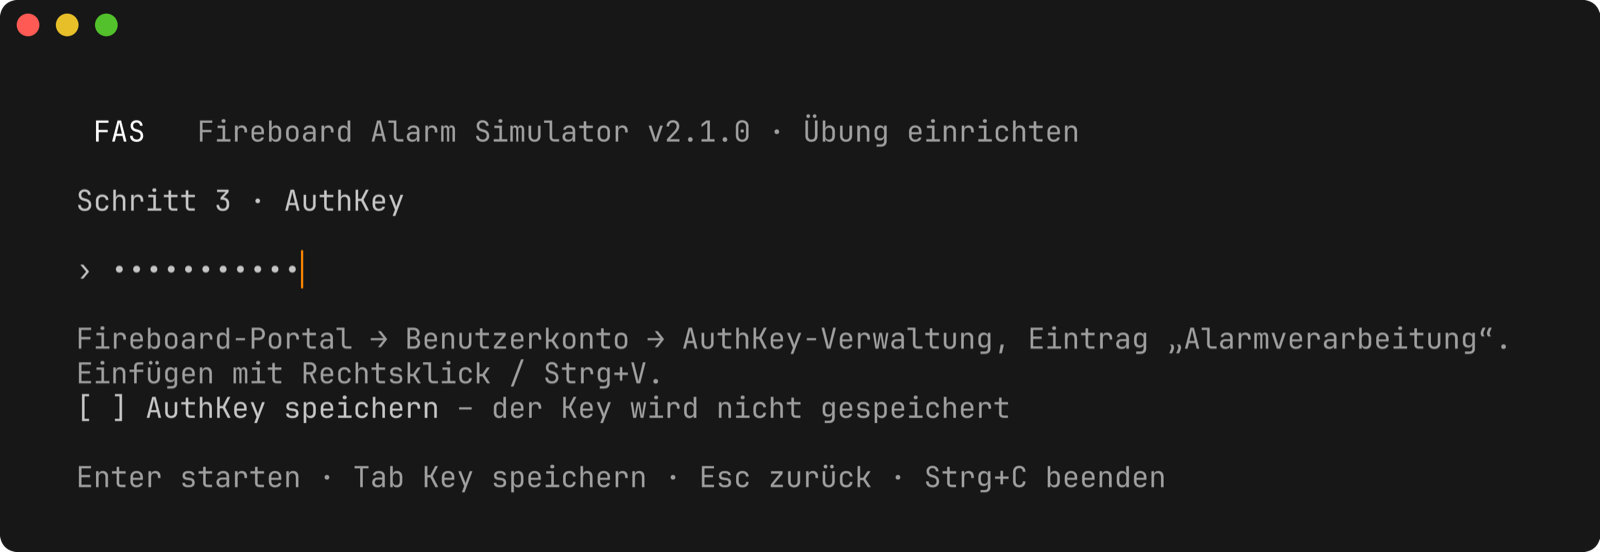
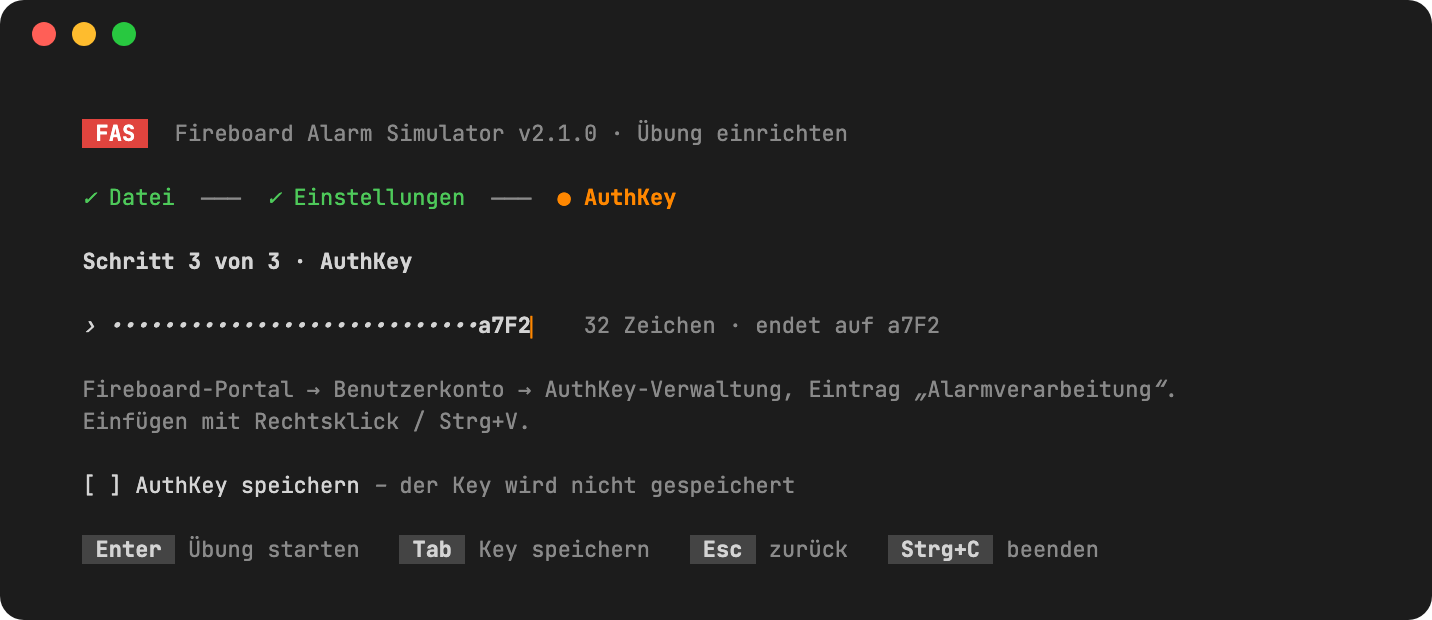
README aktualisiert

diff --git a/index.html b/index.html
@@ -111,7 +111,7 @@ Eure Führungskräfte arbeiten sie in Fireboard ab wie echte Einsätze.
 
 <p class="small">
 <span class="badge beta">Beta</span>
-<a href="https://github.com/kventil/fireboard-alarm-simulator-releases/releases/tag/v2.1.0-beta.2">Vorabversion 2.1.0-beta.2</a>
+<a href="https://github.com/kventil/fireboard-alarm-simulator-releases/releases/tag/v2.1.0-beta.3">Vorabversion 2.1.0-beta.3</a>
 nur zum Testen, nicht für Übungen – <a href="#versionen">was ist neu?</a>
 </p>
 
@@ -121,8 +121,8 @@ Verbindung zu <a href="https://fireboard.net/">Fireboard</a>.
 </p>
 
 <figure>
-  <img src="docs/images/uebung.png" width="1600" height="739" alt="Übungsansicht während einer laufenden Übung">
-  <figcaption>Die Übungsansicht: welche Einsätze raus sind, welcher als Nächstes kommt.</figcaption>
+  <img src="docs/images/uebung.png" width="1696" height="1420" alt="Übungsansicht während einer laufenden Übung">
+  <figcaption>Die Übungsansicht: welche Einsätze raus sind, welcher als Nächstes kommt, und alles zum ausgewählten Einsatz.</figcaption>
 </figure>
 
 <p class="note">
@@ -178,14 +178,14 @@ Einsätze landen nur im Alarmeingang.
     <p>Doppelklick auf <code>fas.exe</code>. Mit den Pfeiltasten die
     Excel-Liste auswählen, dann <kbd>Enter</kbd>. Eigene Listen einfach in
     denselben Ordner legen.</p>
-    <img src="docs/images/start-datei.png" width="1600" height="644" alt="Startbildschirm: Alarmliste wählen" loading="lazy">
+    <img src="docs/images/start-datei.png" width="1432" height="556" alt="Startbildschirm: Alarmliste wählen" loading="lazy">
   </li>
   <li>
     <h3>Einstellen</h3>
     <p>Testlauf oder live, von Hand oder automatisch, wie viele
     Zufallsalarme. Beim ersten Mal auf <b>Testlauf</b> lassen – dann kommt
     in Fireboard nichts an.</p>
-    <img src="docs/images/start-einstellungen.png" width="1600" height="759" alt="Startbildschirm: Einstellungen" loading="lazy">
+    <img src="docs/images/start-einstellungen.png" width="1432" height="748" alt="Startbildschirm: Einstellungen" loading="lazy">
   </li>
   <li>
     <h3>Übung live</h3>
@@ -331,13 +331,23 @@ Versionen. Alle Downloads stehen auf der <a href="https://github.com/kventil/fir
 
 <section class="beta">
 
-<h3><a href="https://github.com/kventil/fireboard-alarm-simulator-releases/releases/tag/v2.1.0-beta.2">2.1.0-beta.2</a> <span class="badge beta">Beta · nur zum Testen</span> <span class="date">3. Oktober 2026</span></h3>
+<h3><a href="https://github.com/kventil/fireboard-alarm-simulator-releases/releases/tag/v2.1.0-beta.3">2.1.0-beta.3</a> <span class="badge beta">Beta · nur zum Testen</span> <span class="date">7. Oktober 2026</span></h3>
 <p>
 <b>Vorabversion, noch nicht fertig getestet.</b> Für Übungen bitte die
 aktuelle Version 2.0.0 verwenden. Wer die Neuerungen ausprobiert:
 Rückmeldungen gern über <a href="#feedback">Feedback</a>.
 </p>
 <ul>
+  <li><b>Übungsansicht:</b> Die Liste nutzt die ganze Fensterhöhe. Darunter
+    steht alles zum ausgewählten Einsatz – Alarmtext, Meldebild, Objekt,
+    Meldender –, in breiten Fenstern daneben, was als Nächstes kommt und was
+    zuletzt passiert ist. In kleinen Fenstern zeigt <kbd>i</kbd> alle Details.
+    Unten stehen nur die Tasten, die gerade passen; Löschen mit <kbd>d</kbd>
+    fragt einmal nach.</li>
+  <li><b>Startbildschirm:</b> zeigt die Schritte, das Änderungsdatum der
+    Excel-Listen und eine nicht beendete Übung direkt in der Liste. Dateien
+    lassen sich mit der Maus wählen; beim AuthKey sind Länge und die letzten
+    vier Zeichen zu sehen.</li>
   <li><b>Übung wiederholen:</b> Wird dieselbe Excel-Liste noch einmal
     durchgespielt, erscheinen die Alarme in Fireboard wieder als neue Einsätze.
     Bisher blieben sie aus, weil Fireboard sie für bereits bekannte Einsätze
@@ -359,9 +369,8 @@ Rückmeldungen gern über <a href="#feedback">Feedback</a>.
     Start. Sie enthält keinen AuthKey und hilft bei der Fehlersuche.</li>
 </ul>
 <p class="small">
-Seit <a href="https://github.com/kventil/fireboard-alarm-simulator-releases/releases/tag/v2.1.0-beta.1">beta.1</a> (2. Oktober): Aufräumarbeiten
-im Programm. Lässt sich der AuthKey nicht speichern, startet die Übung
-trotzdem und zeigt einen Hinweis.
+Seit <a href="https://github.com/kventil/fireboard-alarm-simulator-releases/releases/tag/v2.1.0-beta.2">beta.2</a> (3. Oktober): die neue
+Übungsansicht und der überarbeitete Startbildschirm (die ersten beiden Punkte).
 </p>
 
 </section>

diff --git a/remote/version.js b/remote/version.js
@@ -1,2 +1,2 @@
 // Version of the control page, set when publishing.
-export const PAGE_VERSION = "2.1.0-beta.2";
+export const PAGE_VERSION = "2.1.0-beta.3";

diff --git a/README.md b/README.md
@@ -75,7 +75,8 @@ entpacken (Rechtsklick → *Alle extrahieren*). Im Ordner liegen:
 
 **Doppelklick auf `fas.exe`.** Es öffnet sich ein Fenster mit dem
 Startbildschirm. Mit den Pfeiltasten `↑` `↓` die Excel-Liste auswählen, dann
-`Enter`.
+`Enter` – oder die Datei mit der Maus anklicken (zweiter Klick: weiter). Wurde
+die letzte Übung mit einer Datei nicht beendet, steht das direkt darunter.
 
 ![Startbildschirm: Alarmliste wählen](docs/images/start-datei.png)
 
@@ -88,8 +89,9 @@ erscheint dann hier. Oder die Datei direkt **auf `fas.exe` ziehen**.
 
 ### 3. Einstellungen
 
-Mit `↑` `↓` zwischen den Zeilen wechseln, mit `←` `→` die Auswahl ändern.
-Zahlen einfach eintippen.
+Mit `↑` `↓` zwischen den Zeilen wechseln, mit `←` `→` oder der Leertaste die
+Auswahl ändern. Zahlen einfach eintippen. Unter den Einstellungen steht, was
+die gewählte Zeile bewirkt.
 
 ![Startbildschirm: Einstellungen](docs/images/start-einstellungen.png)
 
@@ -110,7 +112,9 @@ kommt nichts an. Beenden mit `q`.
 
 FAS noch einmal starten, bei *Senden* **Live** wählen und `Enter`. Jetzt fragt
 FAS nach dem **AuthKey**: eintippen oder mit Rechtsklick / `Strg+V` einfügen,
-dann `Enter`. Der Key wird **nicht gespeichert** und bei jedem Start neu
+dann `Enter`. Bei langen Keys zeigt FAS die letzten vier Zeichen und die Länge,
+damit du siehst, ob der richtige Key vollständig eingefügt ist. Der Key wird
+**nicht gespeichert** und bei jedem Start neu
 abgefragt – außer du setzt mit `Tab` das Häkchen bei *AuthKey speichern*. Dann
 legt FAS ihn geschützt auf diesem Computer ab und fragt beim nächsten Mal nicht
 mehr (siehe [AuthKey speichern](#authkey-speichern)).
@@ -126,31 +130,45 @@ mehr (siehe [AuthKey speichern](#authkey-speichern)).
 - **Oben** siehst du, ob wirklich gesendet wird (**LIVE**) oder nur geübt wird
   (**TESTLAUF**), und wie viele Alarme schon raus sind.
 - **Übungszeit** läuft seit dem Start; bei Pause bleibt sie stehen.
-- **Die Liste** zeigt jeden Einsatz: `Z4` ist Zeile 4 deiner Excel-Liste.
+- **Die Liste** zeigt jeden Einsatz: `Z4` ist Zeile 4 deiner Excel-Liste. Die
+  Zeit davor ist die Übungszeit, zu der er gesendet wurde (`+5:10`). Die
+  Liste nutzt die ganze Fensterhöhe; ein größeres Fenster zeigt mehr Einsätze.
+- **Unter der Liste** steht alles zum ausgewählten Einsatz: Alarmtext,
+  Meldebild, Objekt, Meldender und die geplante Lageänderung. Ist das Fenster
+  breit genug, stehen daneben **Als Nächstes** (was gleich gesendet wird) und
+  der **Verlauf** (was zuletzt passiert ist). In kleinen Fenstern zeigt `i`
+  alle Details, `Esc` schließt sie wieder.
+- **Ganz unten** stehen nur die Tasten, die für den ausgewählten Einsatz gerade
+  passen.
 
 | Symbol | Bedeutung |
 |---|---|
 | `○` | wartet |
 | `●` | kommt als Nächstes – mit Countdown |
 | `◷` | kommt zu einer festen Zeit ([Drehbuch](#nach-drehbuch)) |
-| `✓` | gesendet |
-| `✗` | Fehler – was los ist, steht unter der Liste |
-| `Update ✓` | Lageänderung wurde gesendet; `Upd 4:12` = kommt in 4:12 Minuten |
+| `✓ gesendet` | gesendet (`✓ Testlauf` im Testlauf) |
+| `✗ … fehlgeschlagen` | Fehler – was los ist, steht unter der Liste |
+| `✓ Update gesendet` | Lageänderung wurde gesendet; `Update in 4:12` = kommt in 4:12 Minuten |
 
 ## Tasten
 
 | Taste | Was passiert |
 |---|---|
 | `↑` `↓` | Einsatz auswählen |
+| `Bild↑` `Bild↓` | seitenweise blättern |
+| `n` | zum nächsten Einsatz springen, der noch nicht gesendet ist |
+| `i` | alle Details des Einsatzes zeigen (`Esc` schließt sie) |
 | `Enter` | ausgewählten Einsatz **sofort** senden |
 | `Leertaste` | **Pause** – alles hält an, bis du noch mal die Leertaste drückst |
 | `u` | Lageänderung des Einsatzes senden |
 | `c` | ausgewählten Einsatz in Fireboard **schließen** |
 | `C` `C` | **alle** gesendeten Einsätze schließen (zweimal drücken) |
 | `z` | einen [Zufallsalarm](#zufallsalarme) hinzufügen |
-| `d` | Einsatz für diese Übung streichen (die Excel-Liste bleibt unverändert) |
+| `d` `d` | Einsatz für diese Übung streichen (zweimal drücken; die Excel-Liste bleibt unverändert) |
 | `h` | [Handy als Fernbedienung](#handy-als-fernbedienung) verbinden |
 | `q` | beenden |
+
+`Esc` bricht eine Rückfrage (`d`, `C`) ab, ohne zu beenden.
 
 ---
 
@@ -424,7 +442,8 @@ Optionen dürfen vor oder hinter der Excel-Datei stehen.
 | `FAS_URL` | Umgebungsvariable, ersetzt `https://login.fireboard.net/api` (z. B. für einen Testserver) |
 
 Weitere Tasten: `j` `k` (wie `↑` `↓`), `g` / `G` (zum ersten / letzten Alarm),
-`s` (wie `Enter`), `p` (wie Leertaste), `Entf` (wie `d`). Mit `Enter` lässt
+`Pos1` / `Ende` (wie `g` / `G`), `s` (wie `Enter`), `p` (wie Leertaste),
+`Entf` (wie `d`). Mit `Enter` lässt
 sich ein bereits gesendeter Alarm erneut senden.
 
 ### AuthKey speichern
